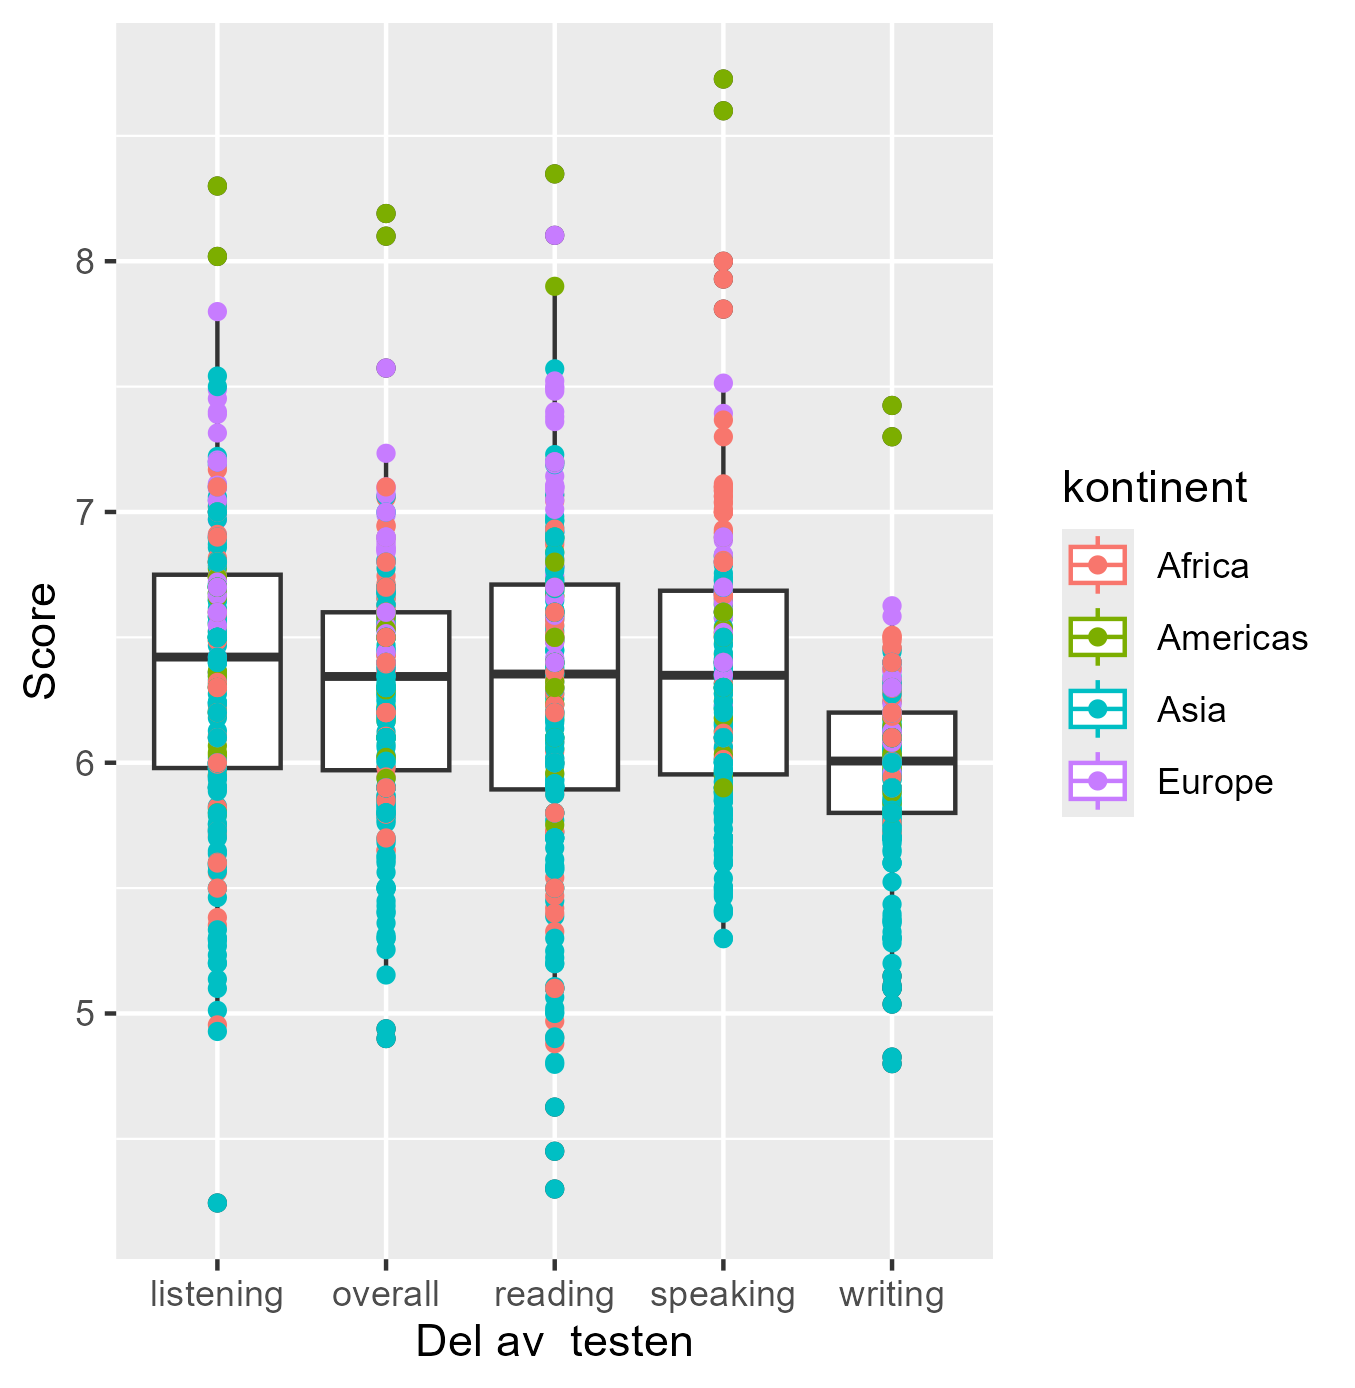
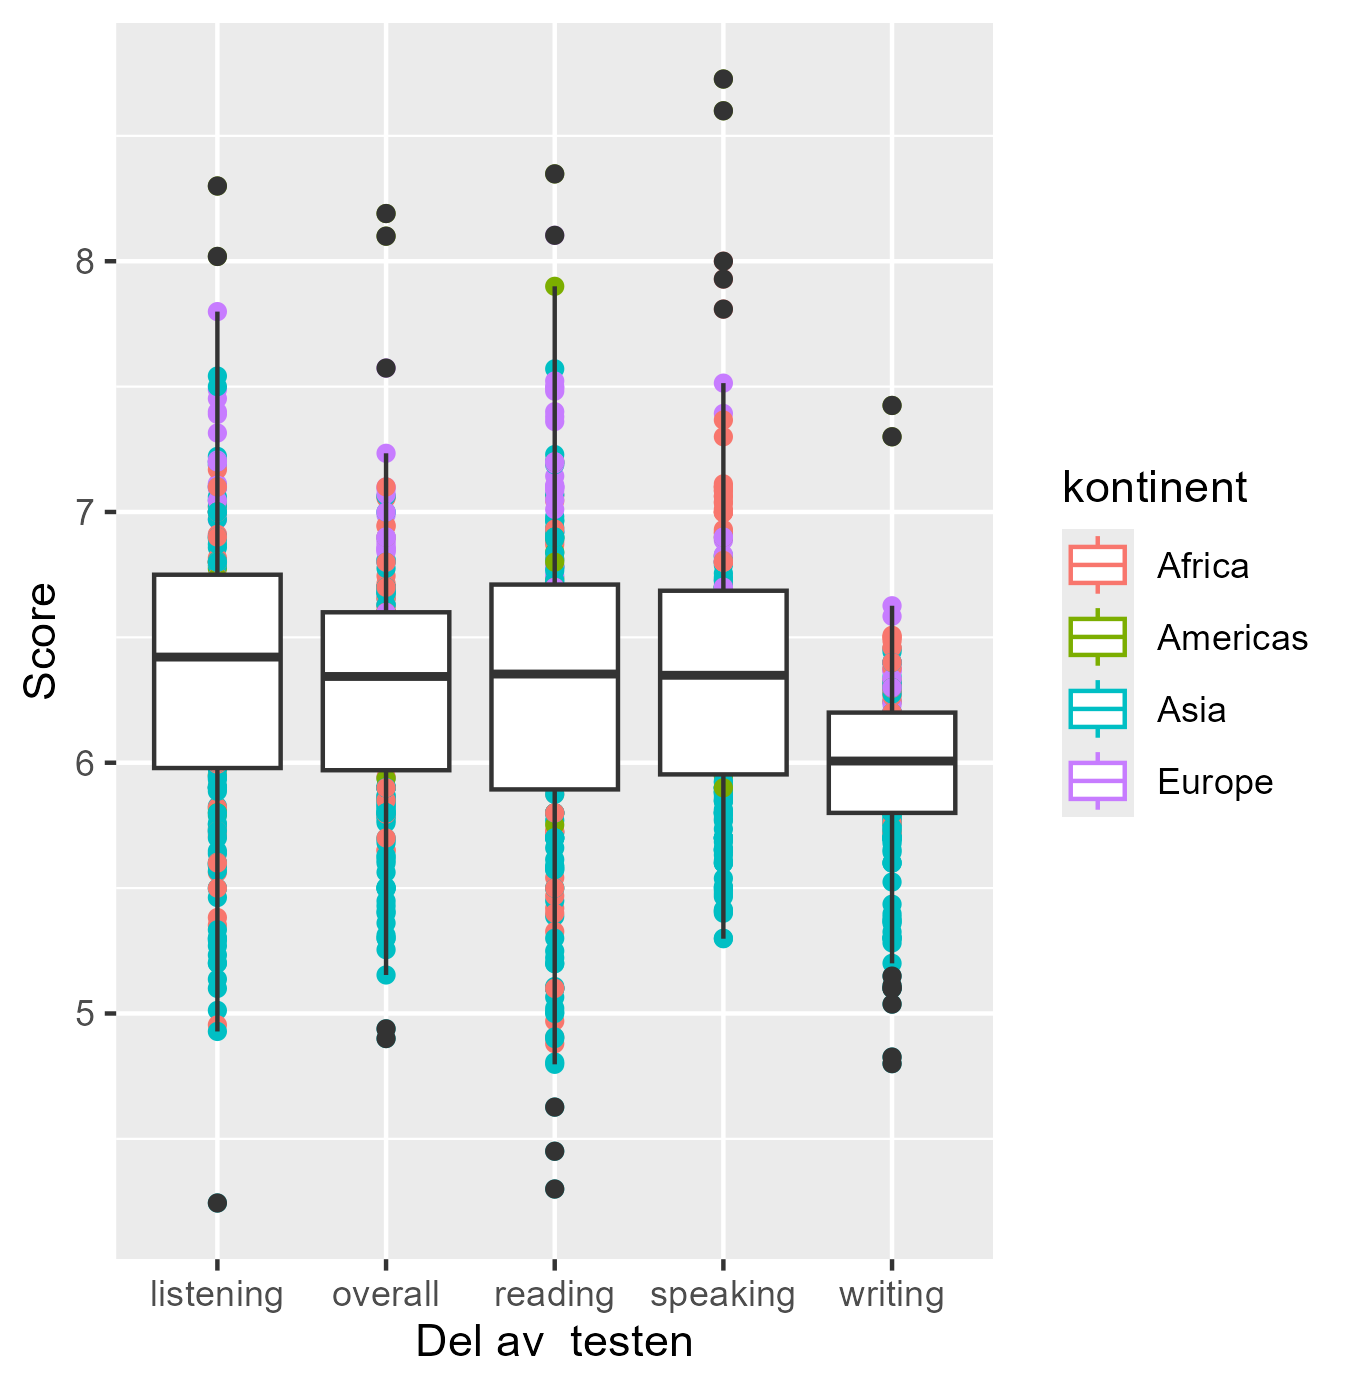
ja

diff --git a/tidy_tuesday/English_test/README.md b/tidy_tuesday/English_test/README.md
@@ -3,3 +3,4 @@ title: "README"
 output: html_document
 ---
 
+Det første vi ønsker å undersøke, er hvilken del av testen som er mest utfordrende for de ulike kontinentene. Dette gjør vi ved å lage et boksplott, der den sorte streken betegner medianen for den gitte gruppen, mens 
